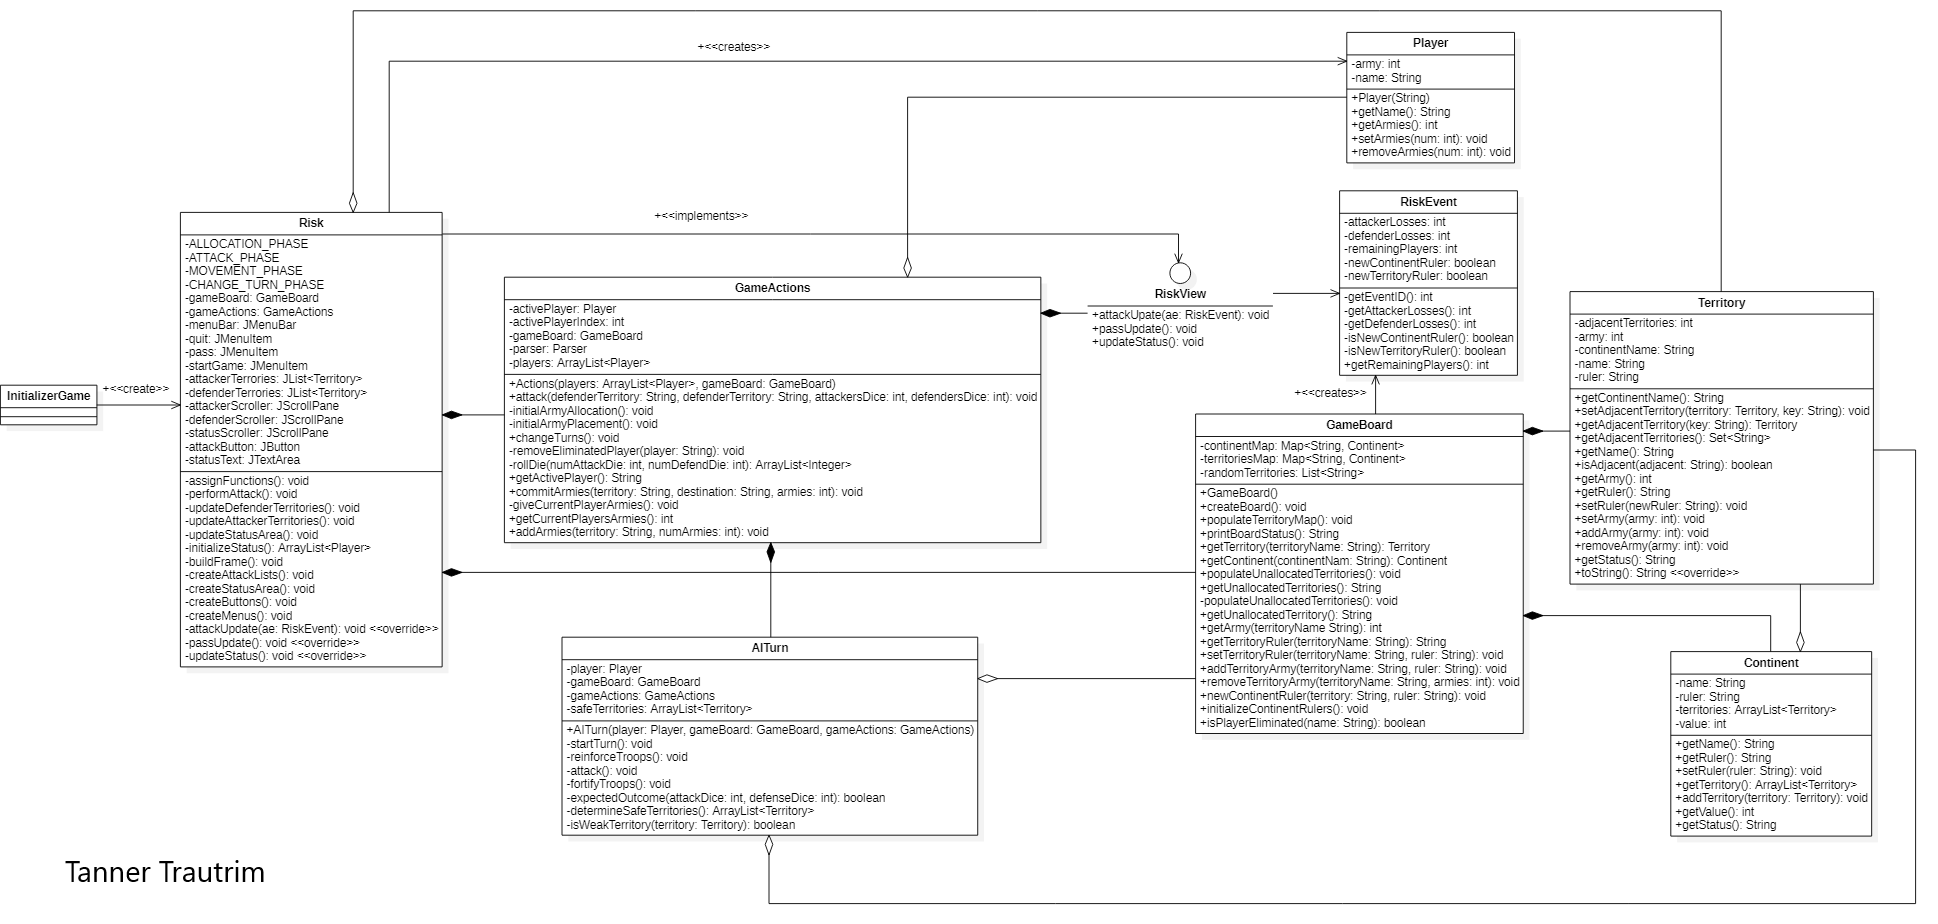
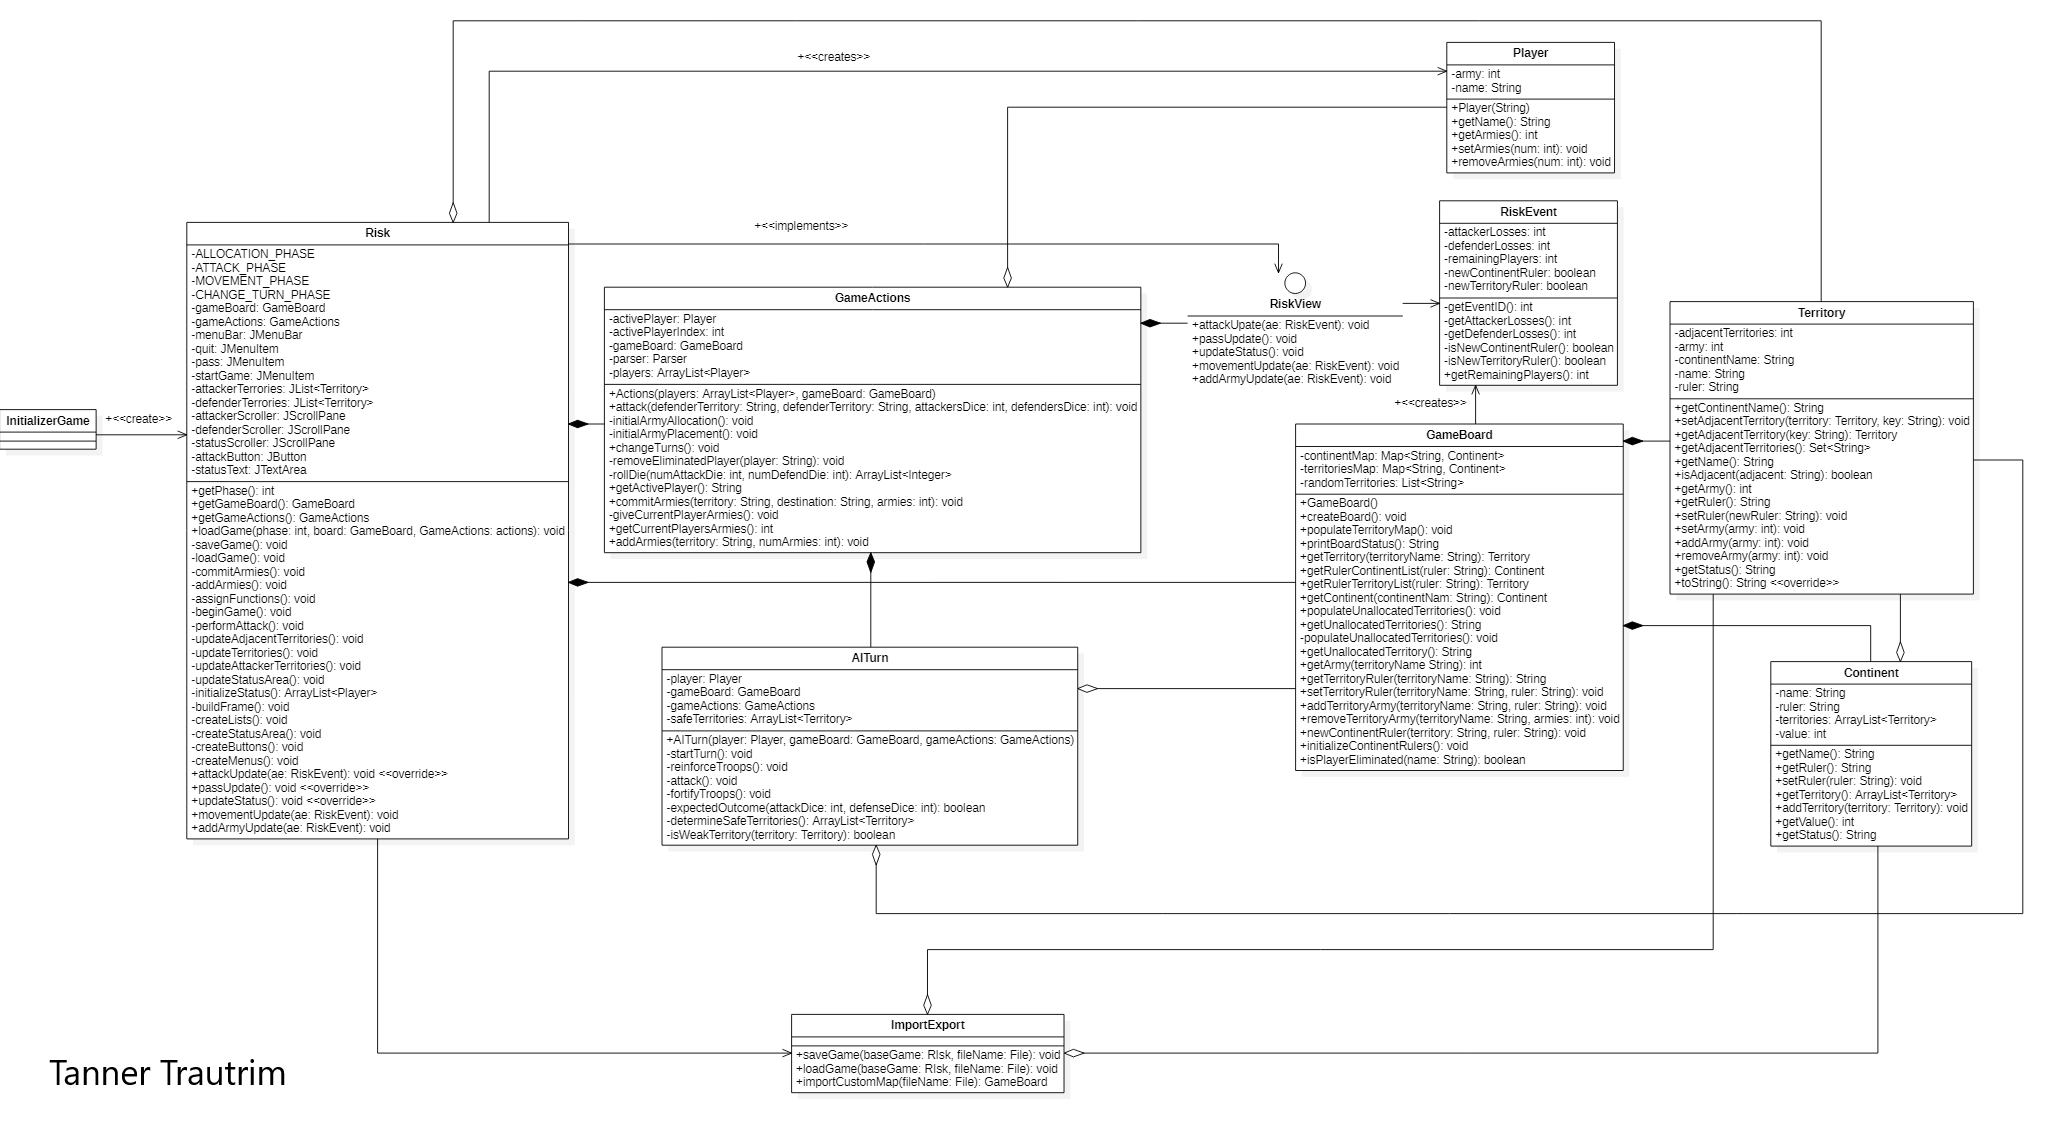
chore (Documentation): Updated UML
- Updated UML
- Removed unused methods
- Updated my role in the README.md

diff --git a/src/main/Risk.java b/src/main/Risk.java
@@ -115,21 +115,18 @@ public class Risk extends JFrame implements RiskView {
     }
 
     /**
-     * Returns the currently selected adjacent Territory
+     * Starts the current game from a File
      *
-     * @return the currently selected adjacent Territory
+     * @param phase   The phase of the current active Player's turn
+     * @param board   The board state of the game
+     * @param actions The gameActions of the game
      */
-    public Territory getAdjacentTerritory() {
-        return adjacentTerritory;
-    }
-
-    /**
-     * Returns the currently selected attacker Territory
-     *
-     * @return the currently selected attacker Territory
-     */
-    public Territory getAttackerTerritory() {
-        return attackerTerritory;
+    public void loadGame(int phase, GameBoard board, GameActions actions) {
+        gameBoard = board;
+        gameActions = actions;
+        currentPhase = phase - 1;
+        updateStatusArea();
+        updatePhase();
     }
 
     /**
@@ -223,7 +220,7 @@ public class Risk extends JFrame implements RiskView {
     /**
      * Starts the current game
      */
-    public void beginGame() {
+    private void beginGame() {
         currentPhase = ALLOCATION_PHASE; // So allocation happen right away
         attackerTerritory = null;
         adjacentTerritory = null;
@@ -248,21 +245,6 @@ public class Risk extends JFrame implements RiskView {
         updateStatusArea();
         JOptionPane.showMessageDialog(this, gameActions.getActivePlayer() + "'s Turn", "Starting Game", JOptionPane.INFORMATION_MESSAGE);
         nextPhase.setVisible(true);
-        updatePhase();
-    }
-
-    /**
-     * Starts the current game from a File
-     *
-     * @param Phase   The phase of the current active Player's turn
-     * @param Board   The board state of the game
-     * @param actions The gameActions of the game
-     */
-    public void loadGame(int Phase, GameBoard Board, GameActions actions) {
-        gameBoard = Board;
-        gameActions = actions;
-        currentPhase = Phase - 1;
-        updateStatusArea();
         updatePhase();
     }
 

diff --git a/src/test/ImportExportTest.java b/src/test/ImportExportTest.java
@@ -44,10 +44,6 @@ public class ImportExportTest {
         //gameActions tests
         assertEquals(baseGame.getGameActions().getActivePlayer(), savedGame.getGameActions().getActivePlayer()); //Test active players
         assertEquals(baseGame.getGameActions().getCurrentPlayersArmies(), savedGame.getGameActions().getCurrentPlayersArmies()); //Test active player's armies
-
-        //Territory tests
-        assertEquals(baseGame.getAdjacentTerritory(), savedGame.getAdjacentTerritory()); //Test adjacent Territory
-        assertEquals(baseGame.getAttackerTerritory(), savedGame.getAttackerTerritory()); //Test attacker Territory
     }
 
     @Test

diff --git a/README.md b/README.md
@@ -47,7 +47,7 @@ Completed
 * Added ability to save a load games
 * Added GUI popups for the save, load, and custom map locations functions.
 * Added GUI menus for new game, save, and load
-* Changed how the game starts (must select new game) 
+* Changed how the game starts (must select new game)
 
 ## Authors and work contributed
 
@@ -58,5 +58,5 @@ Completed
 * Jordan Peterkin - [jordanpeterkin](https://github.com/jordanpeterkin)
   - GUI
 * Tanner Trautrim - [EmberNight](https://github.com/EmberNight)
-  - Import Custom Map, Small GUI changes for importing a map, Updated general Documentation
+  - Import Custom Map, GUI changes for importing a map, Updated general Documentation, UML
   
